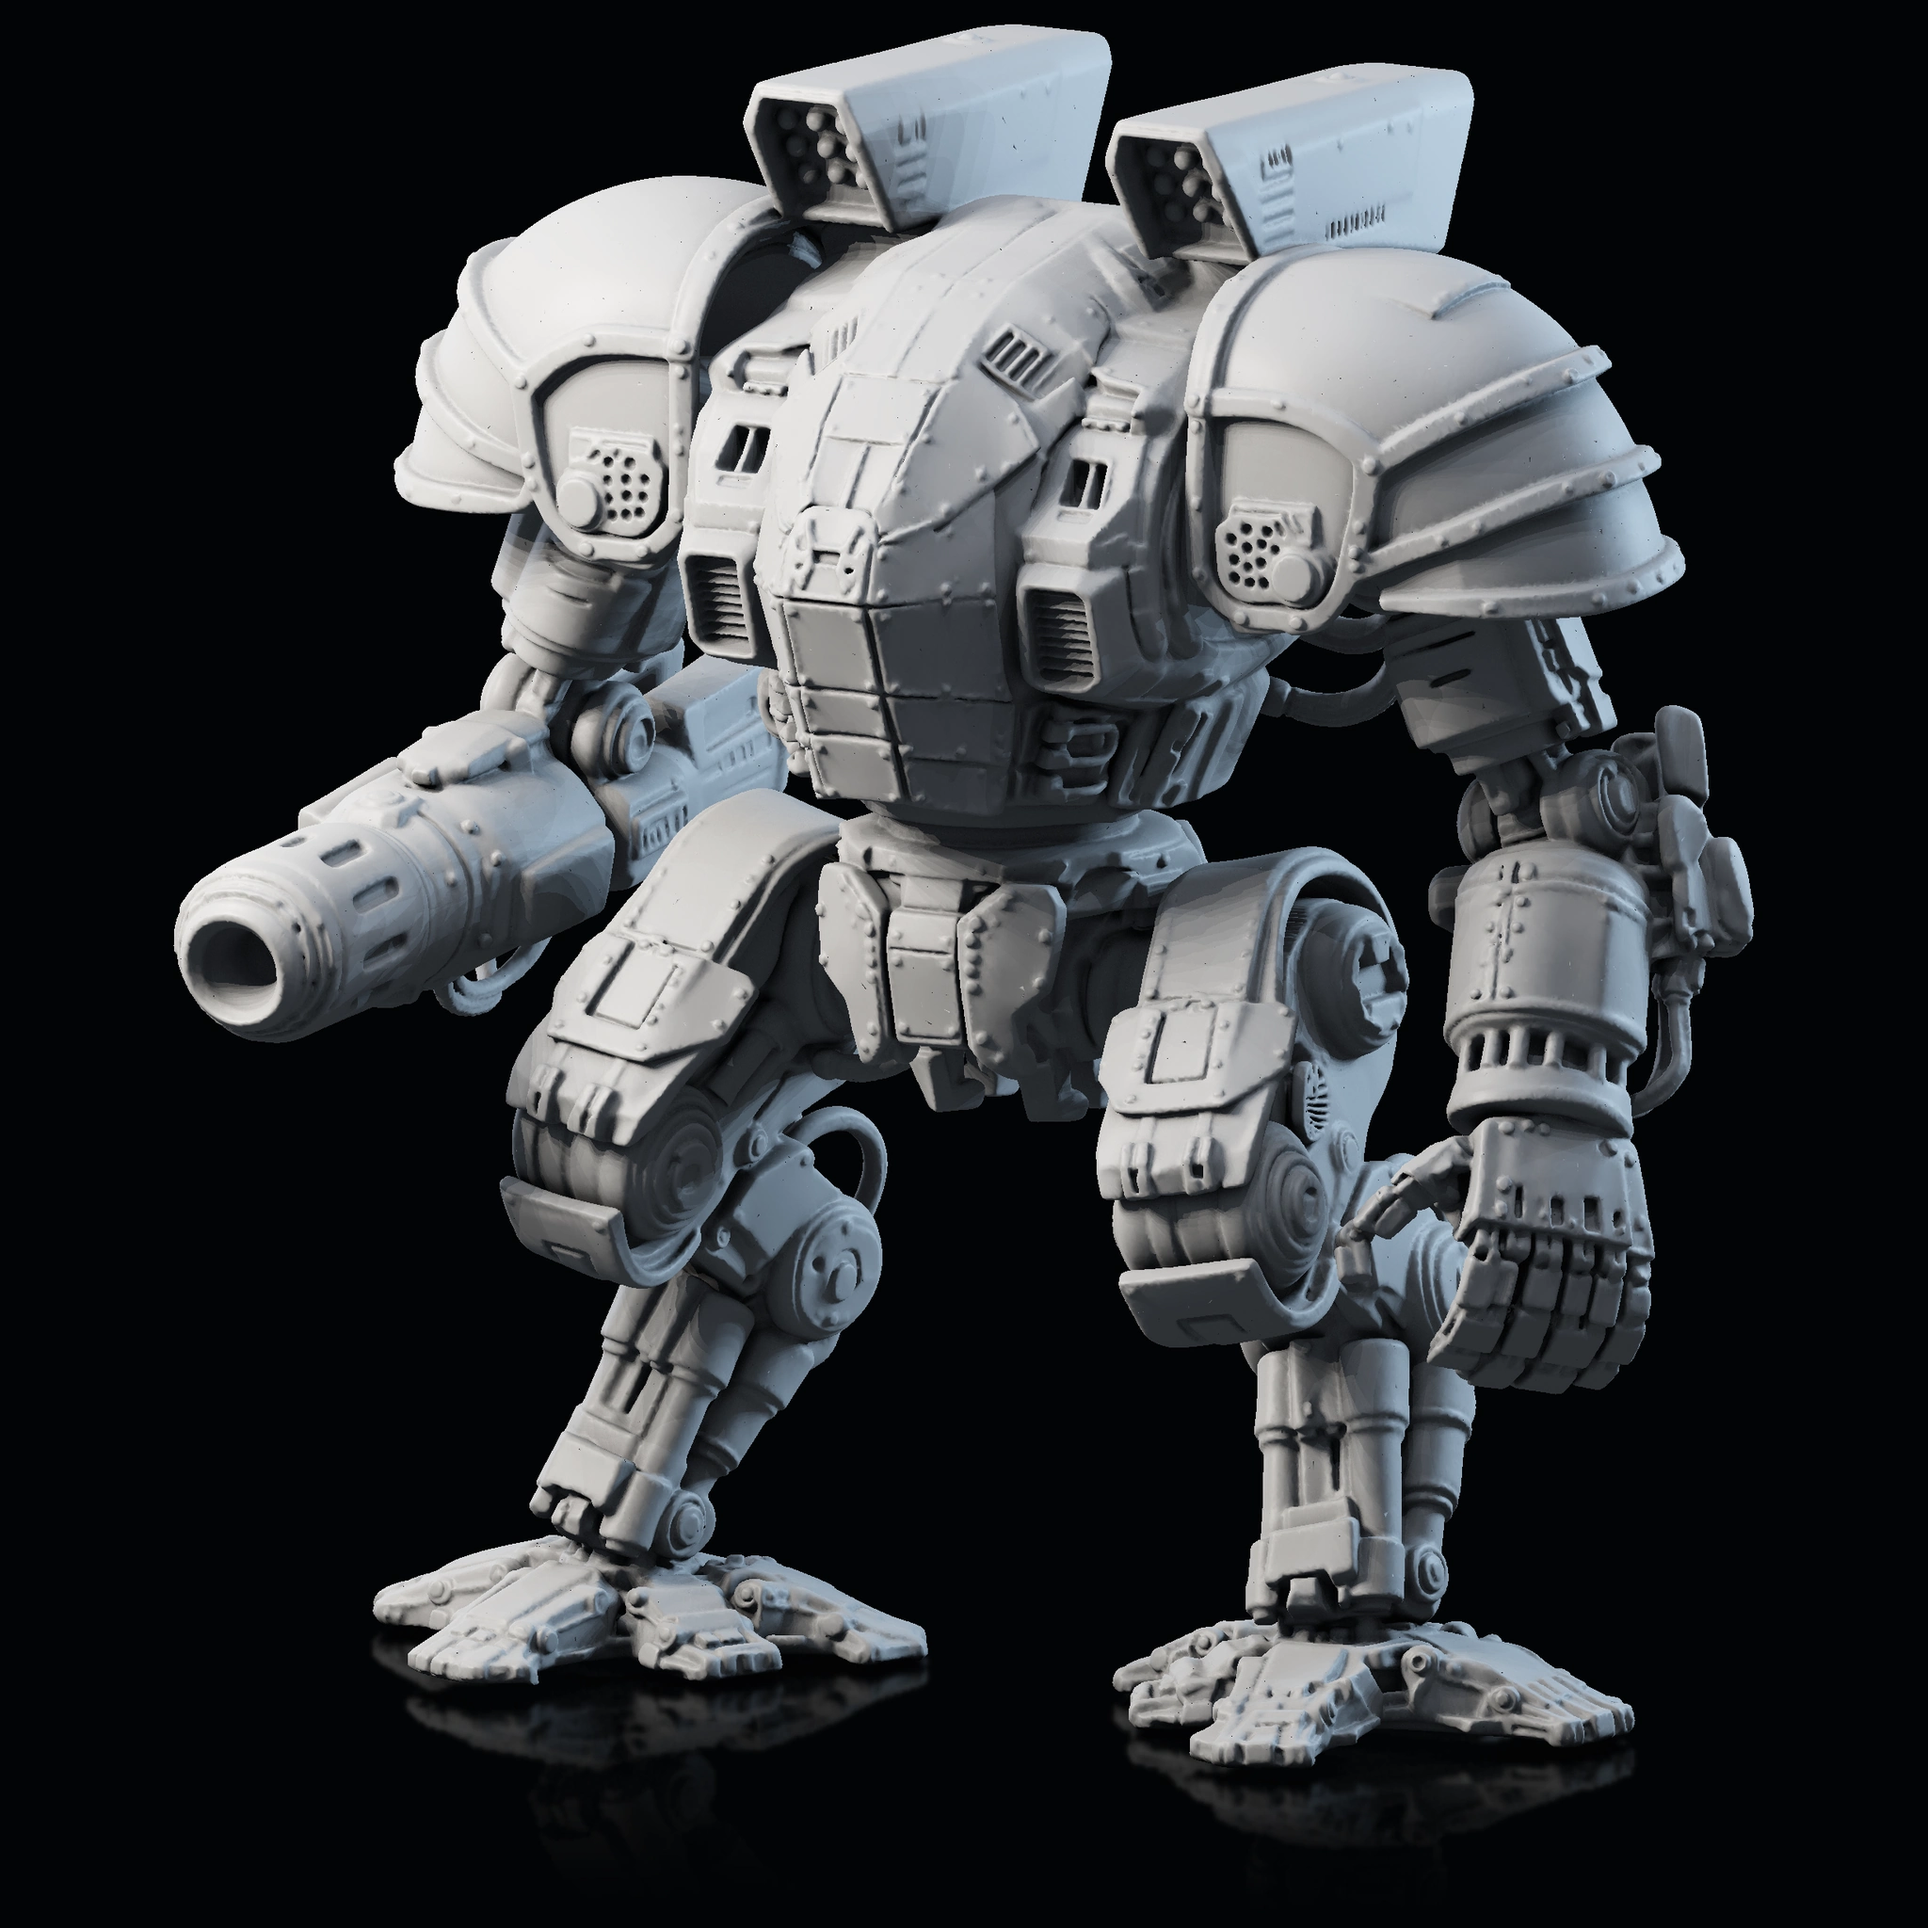
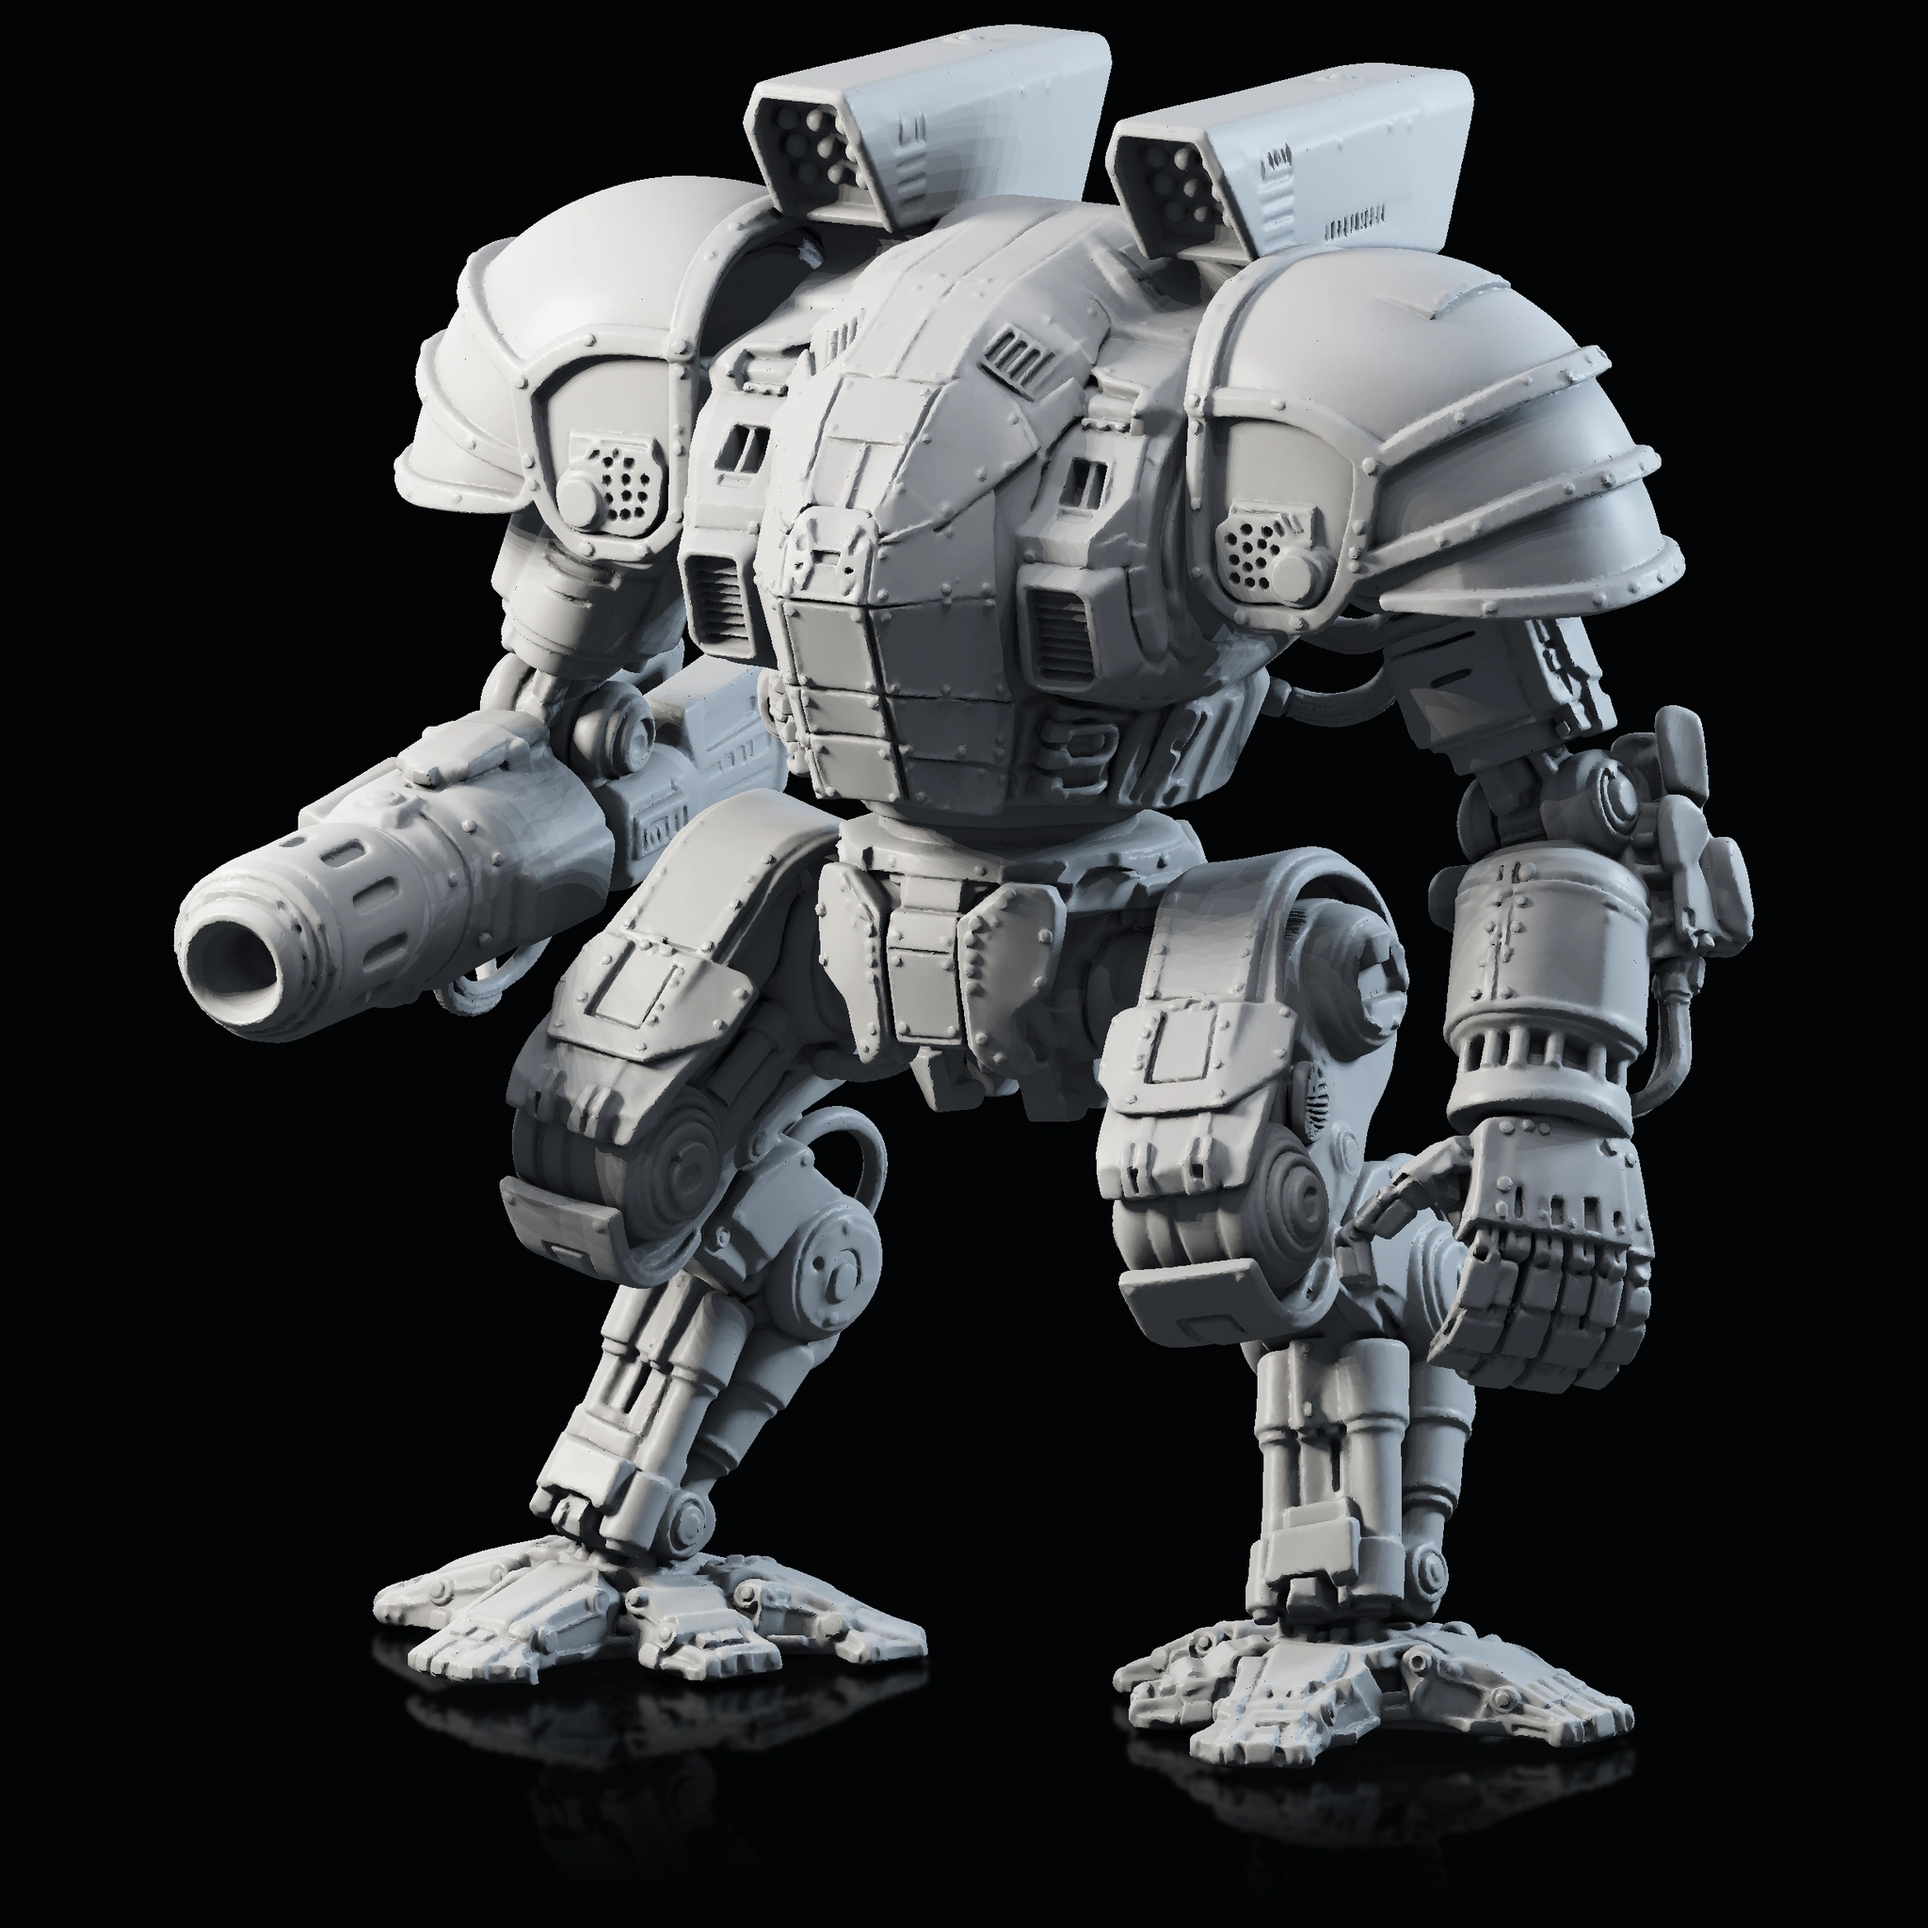
Preserve hard creases in the featured renders and open with the mech rider

diff --git a/index.html b/index.html
@@ -8,7 +8,7 @@
   <meta name="description" content="Direct3D-V3 generates high-resolution 3D meshes in the native voxel domain. Explore 14 interactive geometry comparisons from our SIGGRAPH Asia 2026 paper.">
   <link rel="icon" href="site/mark.svg" type="image/svg+xml">
   <link rel="preload" href="site/fonts/geist.woff2" as="font" type="font/woff2" crossorigin>
-  <link rel="preload" href="site/media/hero/69.webp" as="image">
+  <link rel="preload" href="site/media/hero/vis6.webp?v=4" as="image">
   <link rel="stylesheet" href="site/style.css">
   <script type="module" src="site/app.js"></script>
 </head>
@@ -56,18 +56,18 @@
         </div>
       </div>
       <div class="hero-art" aria-label="Featured Direct3D-V3 clay renders">
-        <button class="hero-inspect" id="hero-inspect" type="button" aria-label="Enlarge the clay render of Armored rover">
+        <button class="hero-inspect" id="hero-inspect" type="button" aria-label="Enlarge the clay render of Mech rider">
           <span class="hero-photo" id="hero-photos">
-            <img class="hero-mesh is-active" data-name="Armored rover" src="site/media/hero/69.webp" style="--detail-origin:50% 48%" alt="Three-quarter clay render of an armored rover" width="2048" height="2048" fetchpriority="high">
-            <img class="hero-mesh" data-name="Twin-barrel mech" src="site/media/hero/vis4.webp" style="--detail-origin:49% 30%" alt="Three-quarter clay render of a bipedal mech with twin shoulder tubes, exposed joints and a trailing cable" width="2048" height="2048" decoding="async" fetchpriority="low" aria-hidden="true">
-            <img class="hero-mesh" data-name="Steam walker" src="site/media/hero/vis5.webp" style="--detail-origin:50% 35%" alt="Three-quarter clay render of a caped rider on a mechanical walker with a cylindrical boiler" width="2048" height="2048" decoding="async" fetchpriority="low" aria-hidden="true">
-            <img class="hero-mesh" data-name="Woodland tower" src="site/media/hero/vis3.webp" style="--detail-origin:52% 41%" alt="Three-quarter clay render of a woodland tower with steep shingled roofs and small conifers" width="2048" height="2048" decoding="async" fetchpriority="low" aria-hidden="true">
-            <img class="hero-mesh" data-name="Armored walker" src="site/media/hero/11.webp" style="--detail-origin:53% 32%" alt="Three-quarter clay render of an armored walker" width="2048" height="2048" decoding="async" fetchpriority="low" aria-hidden="true">
+            <img class="hero-mesh is-active" data-name="Mech rider" src="site/media/hero/vis6.webp?v=4" style="--detail-origin:50% 32%" alt="Front three-quarter clay render of a rider astride a bipedal mech with exposed pistons and a claw" width="2048" height="2048" fetchpriority="high">
+            <img class="hero-mesh" data-name="Armored rover" src="site/media/hero/69.webp?v=4" style="--detail-origin:50% 48%" alt="Three-quarter clay render of an armored rover" width="2048" height="2048" decoding="async" fetchpriority="low" aria-hidden="true">
+            <img class="hero-mesh" data-name="Twin-barrel mech" src="site/media/hero/vis4.webp?v=4" style="--detail-origin:49% 30%" alt="Three-quarter clay render of a bipedal mech with twin shoulder tubes, exposed joints and a trailing cable" width="2048" height="2048" decoding="async" fetchpriority="low" aria-hidden="true">
+            <img class="hero-mesh" data-name="Woodland tower" src="site/media/hero/vis3.webp?v=4" style="--detail-origin:52% 41%" alt="Three-quarter clay render of a woodland tower with steep shingled roofs and small conifers" width="2048" height="2048" decoding="async" fetchpriority="low" aria-hidden="true">
+            <img class="hero-mesh" data-name="Armored walker" src="site/media/hero/11.webp?v=4" style="--detail-origin:53% 32%" alt="Three-quarter clay render of an armored walker" width="2048" height="2048" decoding="async" fetchpriority="low" aria-hidden="true">
           </span>
           <span class="hero-expand" aria-hidden="true"><svg class="ic"><use href="#expand"/></svg></span>
         </button>
         <div class="stage-foot">
-          <div class="stage-caption" id="hero-name" aria-live="off">Armored rover</div>
+          <div class="stage-caption" id="hero-name" aria-live="off">Mech rider</div>
           <div class="stage-controls">
             <button class="hero-detail-toggle" id="hero-detail-toggle" type="button" aria-pressed="false" aria-controls="hero-photos">Detail view</button>
             <div class="mini-arrows">
